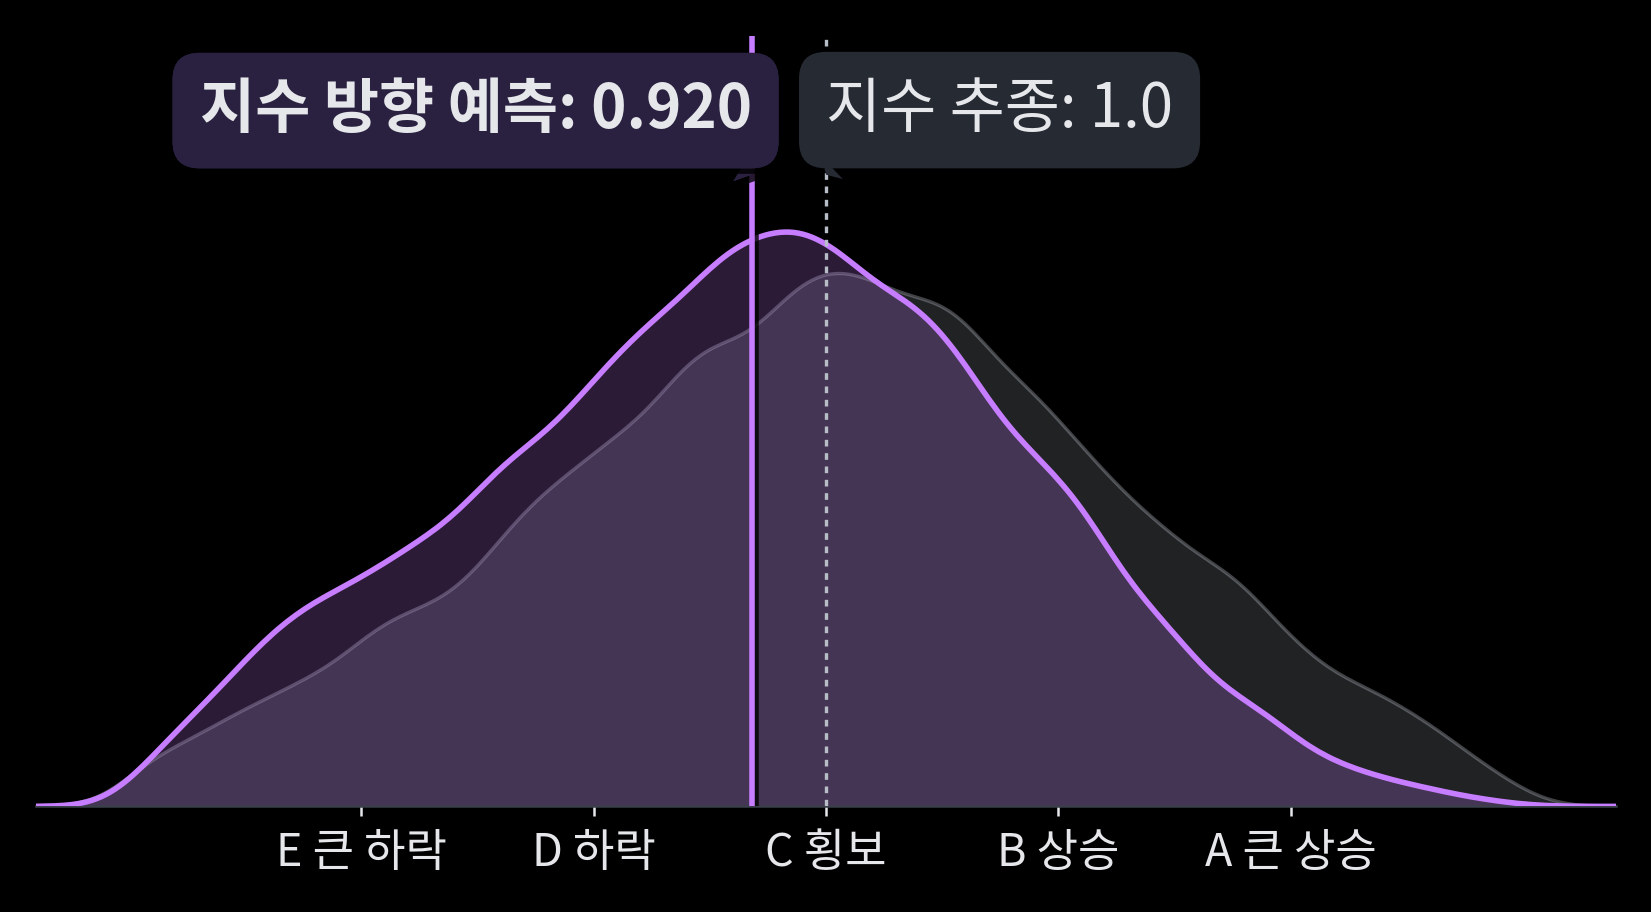
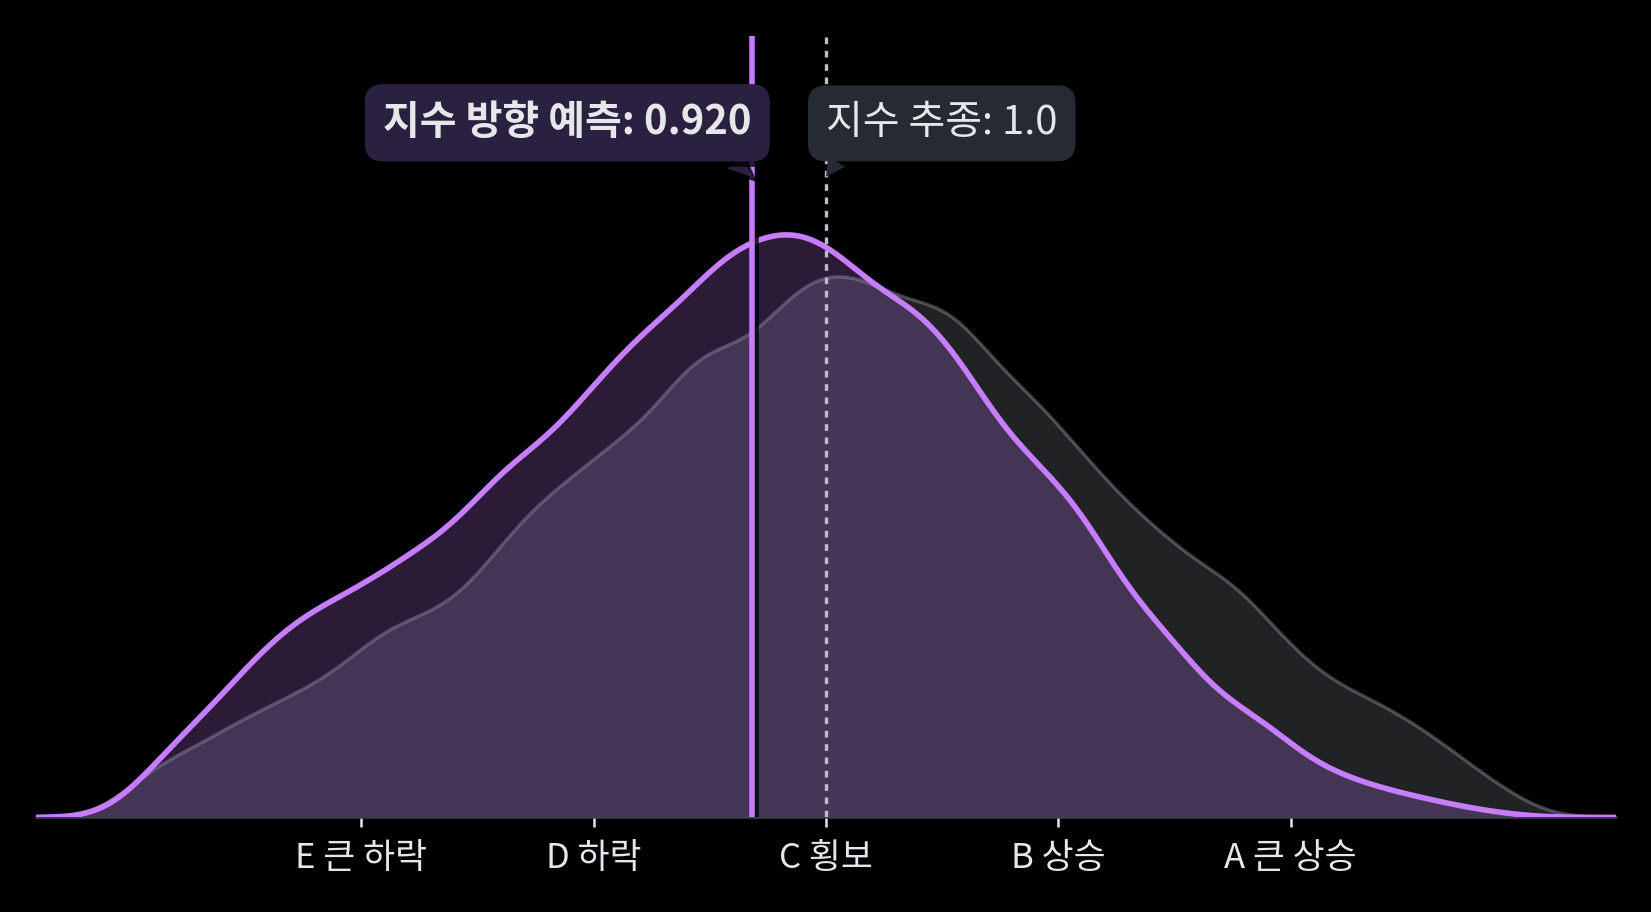
공개본 그림 글자 크기 맞춤

diff --git a/r/20261021-biotech/report.html b/r/20261021-biotech/report.html
@@ -1,6 +1,6 @@
 <h2 id="오늘-판단-요약">오늘 판단 요약</h2>
-<p><img src="r/20261021-biotech/chart-biotech.png?v=0e27d3a5e7" /></p>
-<p><img src="r/20261021-biotech/predict-biotech.png?v=03e6bdcd3a" /></p>
+<p><img src="r/20261021-biotech/chart-biotech.png?v=d72dbcdfdd" /></p>
+<p><img src="r/20261021-biotech/predict-biotech.png?v=91c93c705b" /></p>
 <h3
 id="현재-상태-바이오-주가는-금리가-내린-날-방어-업종과-함께-크게-올랐지만-상승을-이어-갈-재료는-확인되지-않았다"><mark>현재
 상태</mark> 바이오 주가는 금리가 내린 날 방어 업종과 함께 크게 올랐지만,

diff --git a/r/20261020-biotech/report.html b/r/20261020-biotech/report.html
@@ -1,6 +1,6 @@
 <h2 id="오늘-판단-요약">오늘 판단 요약</h2>
-<p><img src="r/20261020-biotech/chart-biotech.png?v=874e3df6af" /></p>
-<p><img src="r/20261020-biotech/predict-biotech.png?v=2cedf4eb40" /></p>
+<p><img src="r/20261020-biotech/chart-biotech.png?v=f451c74ac0" /></p>
+<p><img src="r/20261020-biotech/predict-biotech.png?v=e6b90aa20e" /></p>
 <h3
 id="현재-상태-기술주-급락-뒤-바이오-주가는-반등했지만-국채-금리가-높아-크게-오르기-어렵다"><mark>현재
 상태</mark> 기술주 급락 뒤 바이오 주가는 반등했지만 국채 금리가 높아

diff --git a/r/20261020-nasdaq/report.html b/r/20261020-nasdaq/report.html
@@ -1,6 +1,6 @@
 <h2 id="오늘-판단-요약">오늘 판단 요약</h2>
-<p><img src="r/20261020-nasdaq/chart-nasdaq.png?v=6ac44dbe77" /></p>
-<p><img src="r/20261020-nasdaq/predict-nasdaq.png?v=a67ffc208c" /></p>
+<p><img src="r/20261020-nasdaq/chart-nasdaq.png?v=387355c02d" /></p>
+<p><img src="r/20261020-nasdaq/predict-nasdaq.png?v=2c2ca24713" /></p>
 <h3
 id="현재-상태-ai-데이터센터-빚-불안으로-기술주가-하락한-뒤-월요일-반등은-소수-대형주에-그쳤다"><mark>현재
 상태</mark> AI 데이터센터 빚 불안으로 기술주가 하락한 뒤 월요일 반등은

diff --git a/r/20261021-nasdaq/report.html b/r/20261021-nasdaq/report.html
@@ -1,6 +1,6 @@
 <h2 id="오늘-판단-요약">오늘 판단 요약</h2>
-<p><img src="r/20261021-nasdaq/chart-nasdaq.png?v=d3b0fd1ac8" /></p>
-<p><img src="r/20261021-nasdaq/predict-nasdaq.png?v=db574ac83f" /></p>
+<p><img src="r/20261021-nasdaq/chart-nasdaq.png?v=b6cc5695d3" /></p>
+<p><img src="r/20261021-nasdaq/predict-nasdaq.png?v=7d39f2bfe0" /></p>
 <h3
 id="현재-상태-ai-기업의-빚-불안이-다시-커졌지만-위험-회사채-시장-전체로는-아직-커지지-않았다"><mark>현재
 상태</mark> AI 기업의 빚 불안이 다시 커졌지만 위험 회사채 시장 전체로는

diff --git a/r/20261019-biotech/report.html b/r/20261019-biotech/report.html
@@ -1,6 +1,6 @@
 <h2 id="오늘-판단-요약">오늘 판단 요약</h2>
-<p><img src="r/20261019-biotech/chart-biotech.png?v=d7427aae50" /></p>
-<p><img src="r/20261019-biotech/predict-biotech.png?v=05b155616a" /></p>
+<p><img src="r/20261019-biotech/chart-biotech.png?v=26c23c44b0" /></p>
+<p><img src="r/20261019-biotech/predict-biotech.png?v=74e1372dad" /></p>
 <h3
 id="현재-상태-ai-기업의-빚-불안-때문에-바이오-주가도-기술주와-함께-하락했다"><mark>현재
 상태</mark> AI 기업의 빚 불안 때문에 바이오 주가도 기술주와 함께

diff --git a/r/20261019-nasdaq/report.html b/r/20261019-nasdaq/report.html
@@ -1,6 +1,6 @@
 <h2 id="오늘-판단-요약">오늘 판단 요약</h2>
-<p><img src="r/20261019-nasdaq/chart-nasdaq.png?v=a2b0ecfb64" /></p>
-<p><img src="r/20261019-nasdaq/predict-nasdaq.png?v=cbb334041b" /></p>
+<p><img src="r/20261019-nasdaq/chart-nasdaq.png?v=04ecb763ee" /></p>
+<p><img src="r/20261019-nasdaq/predict-nasdaq.png?v=c904cf685c" /></p>
 <h3
 id="현재-상태-ai-기업의-빚-상환-능력에-대한-의심-때문에-기술주가-하락했다"><mark>현재
 상태</mark> AI 기업의 빚 상환 능력에 대한 의심 때문에 기술주가
